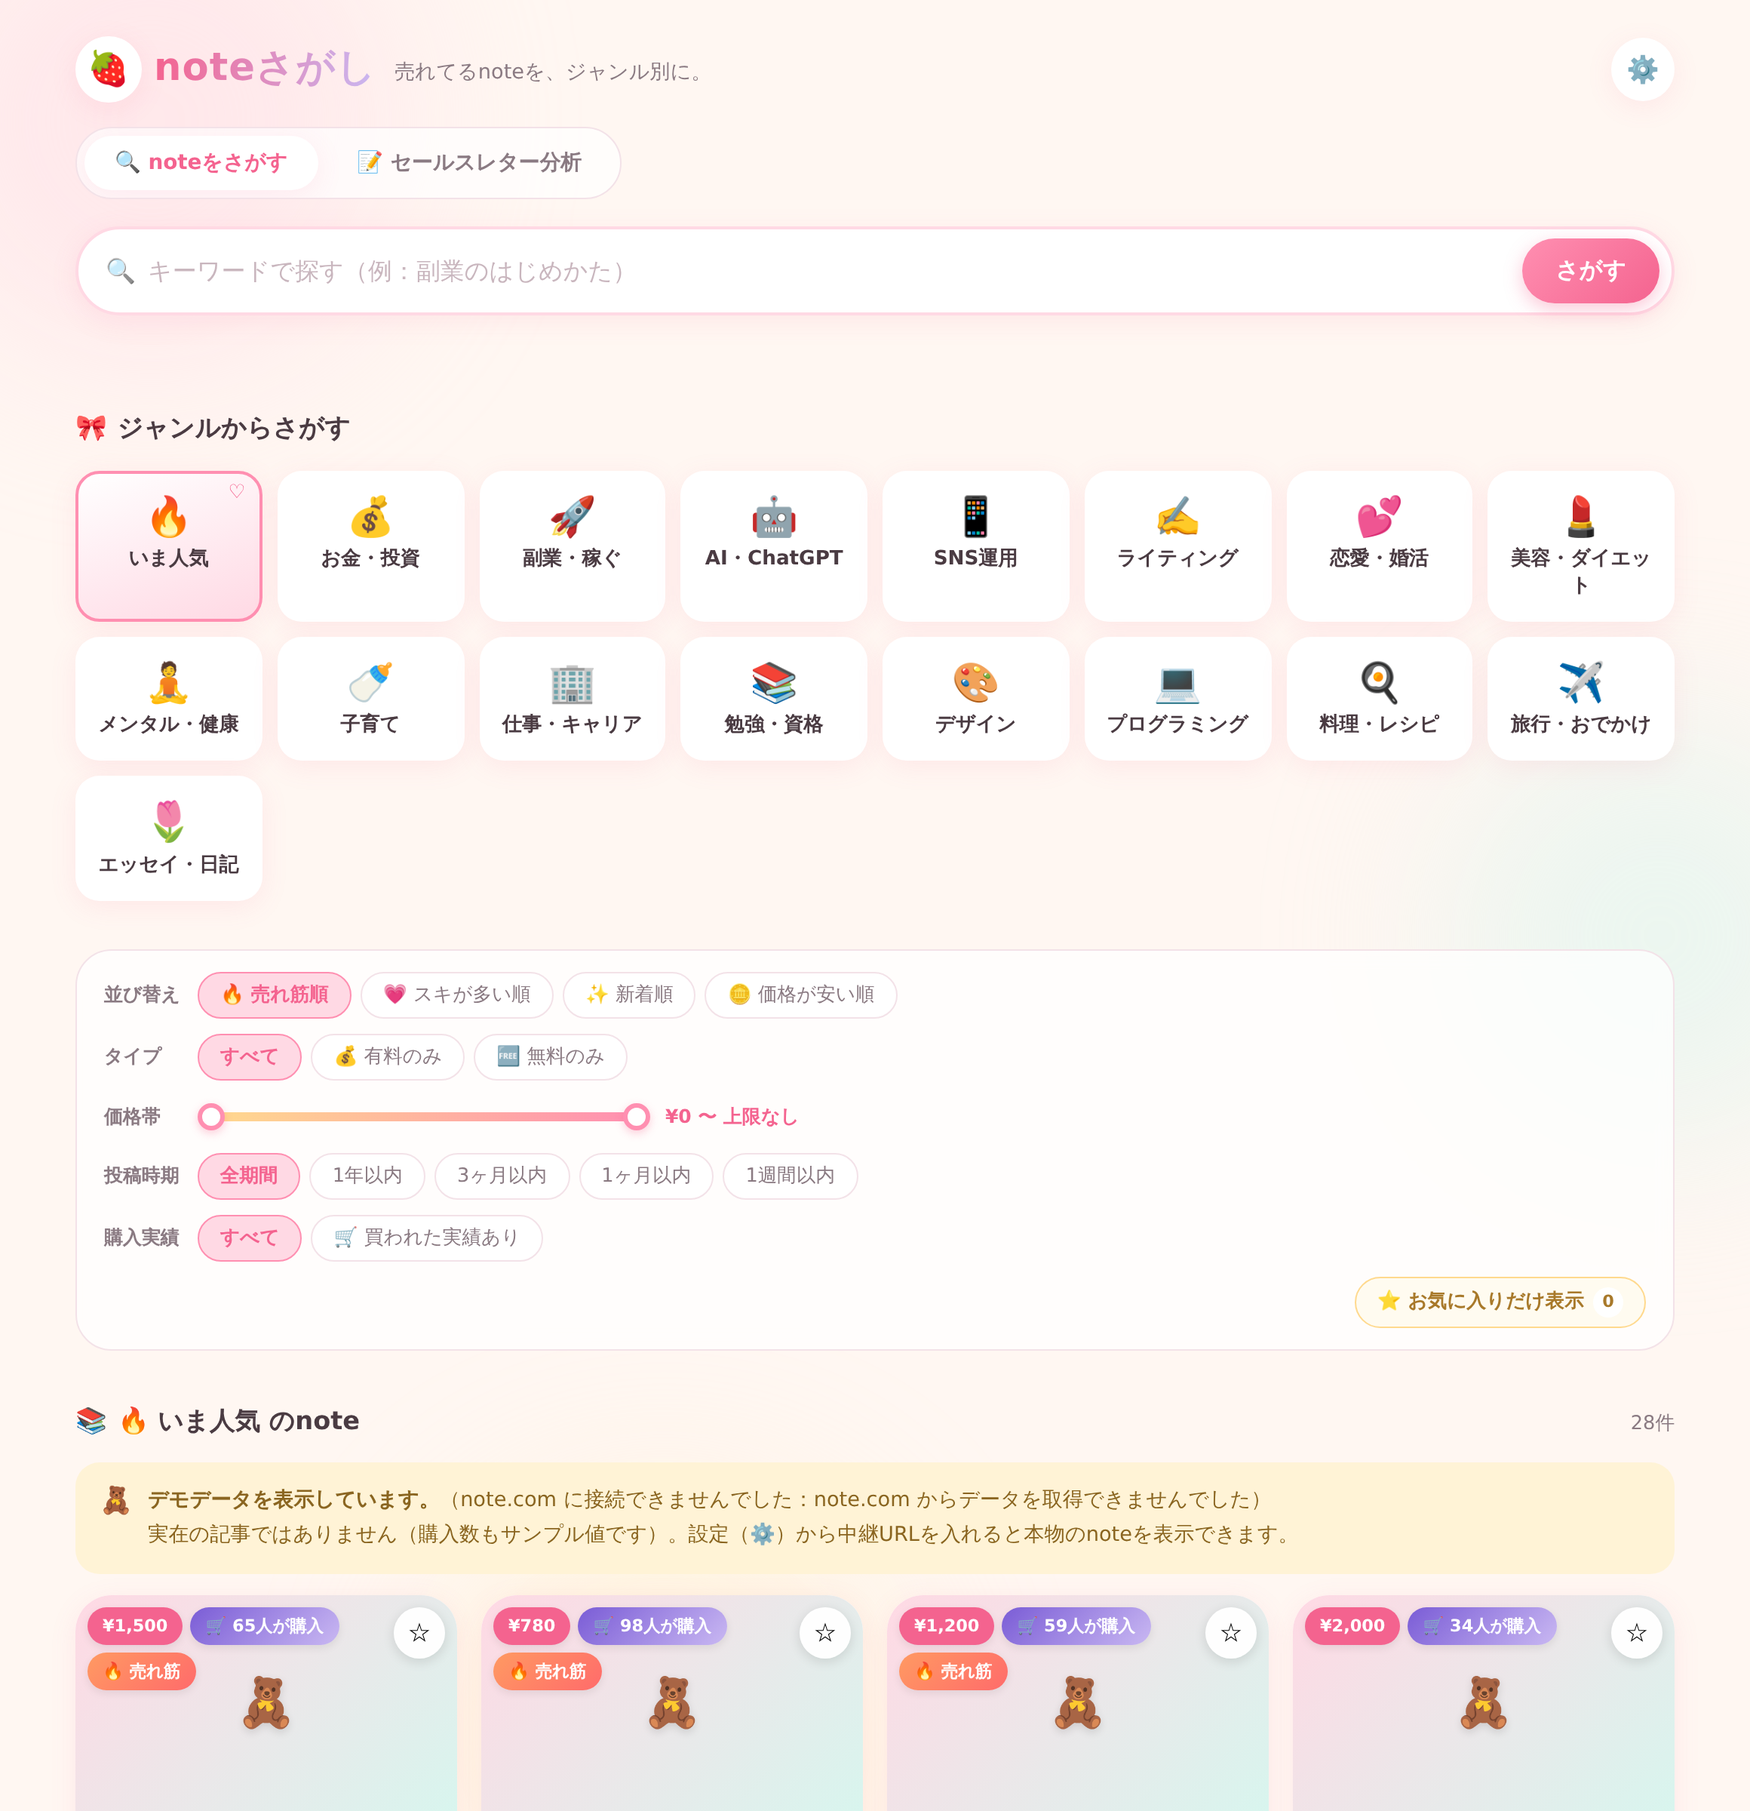
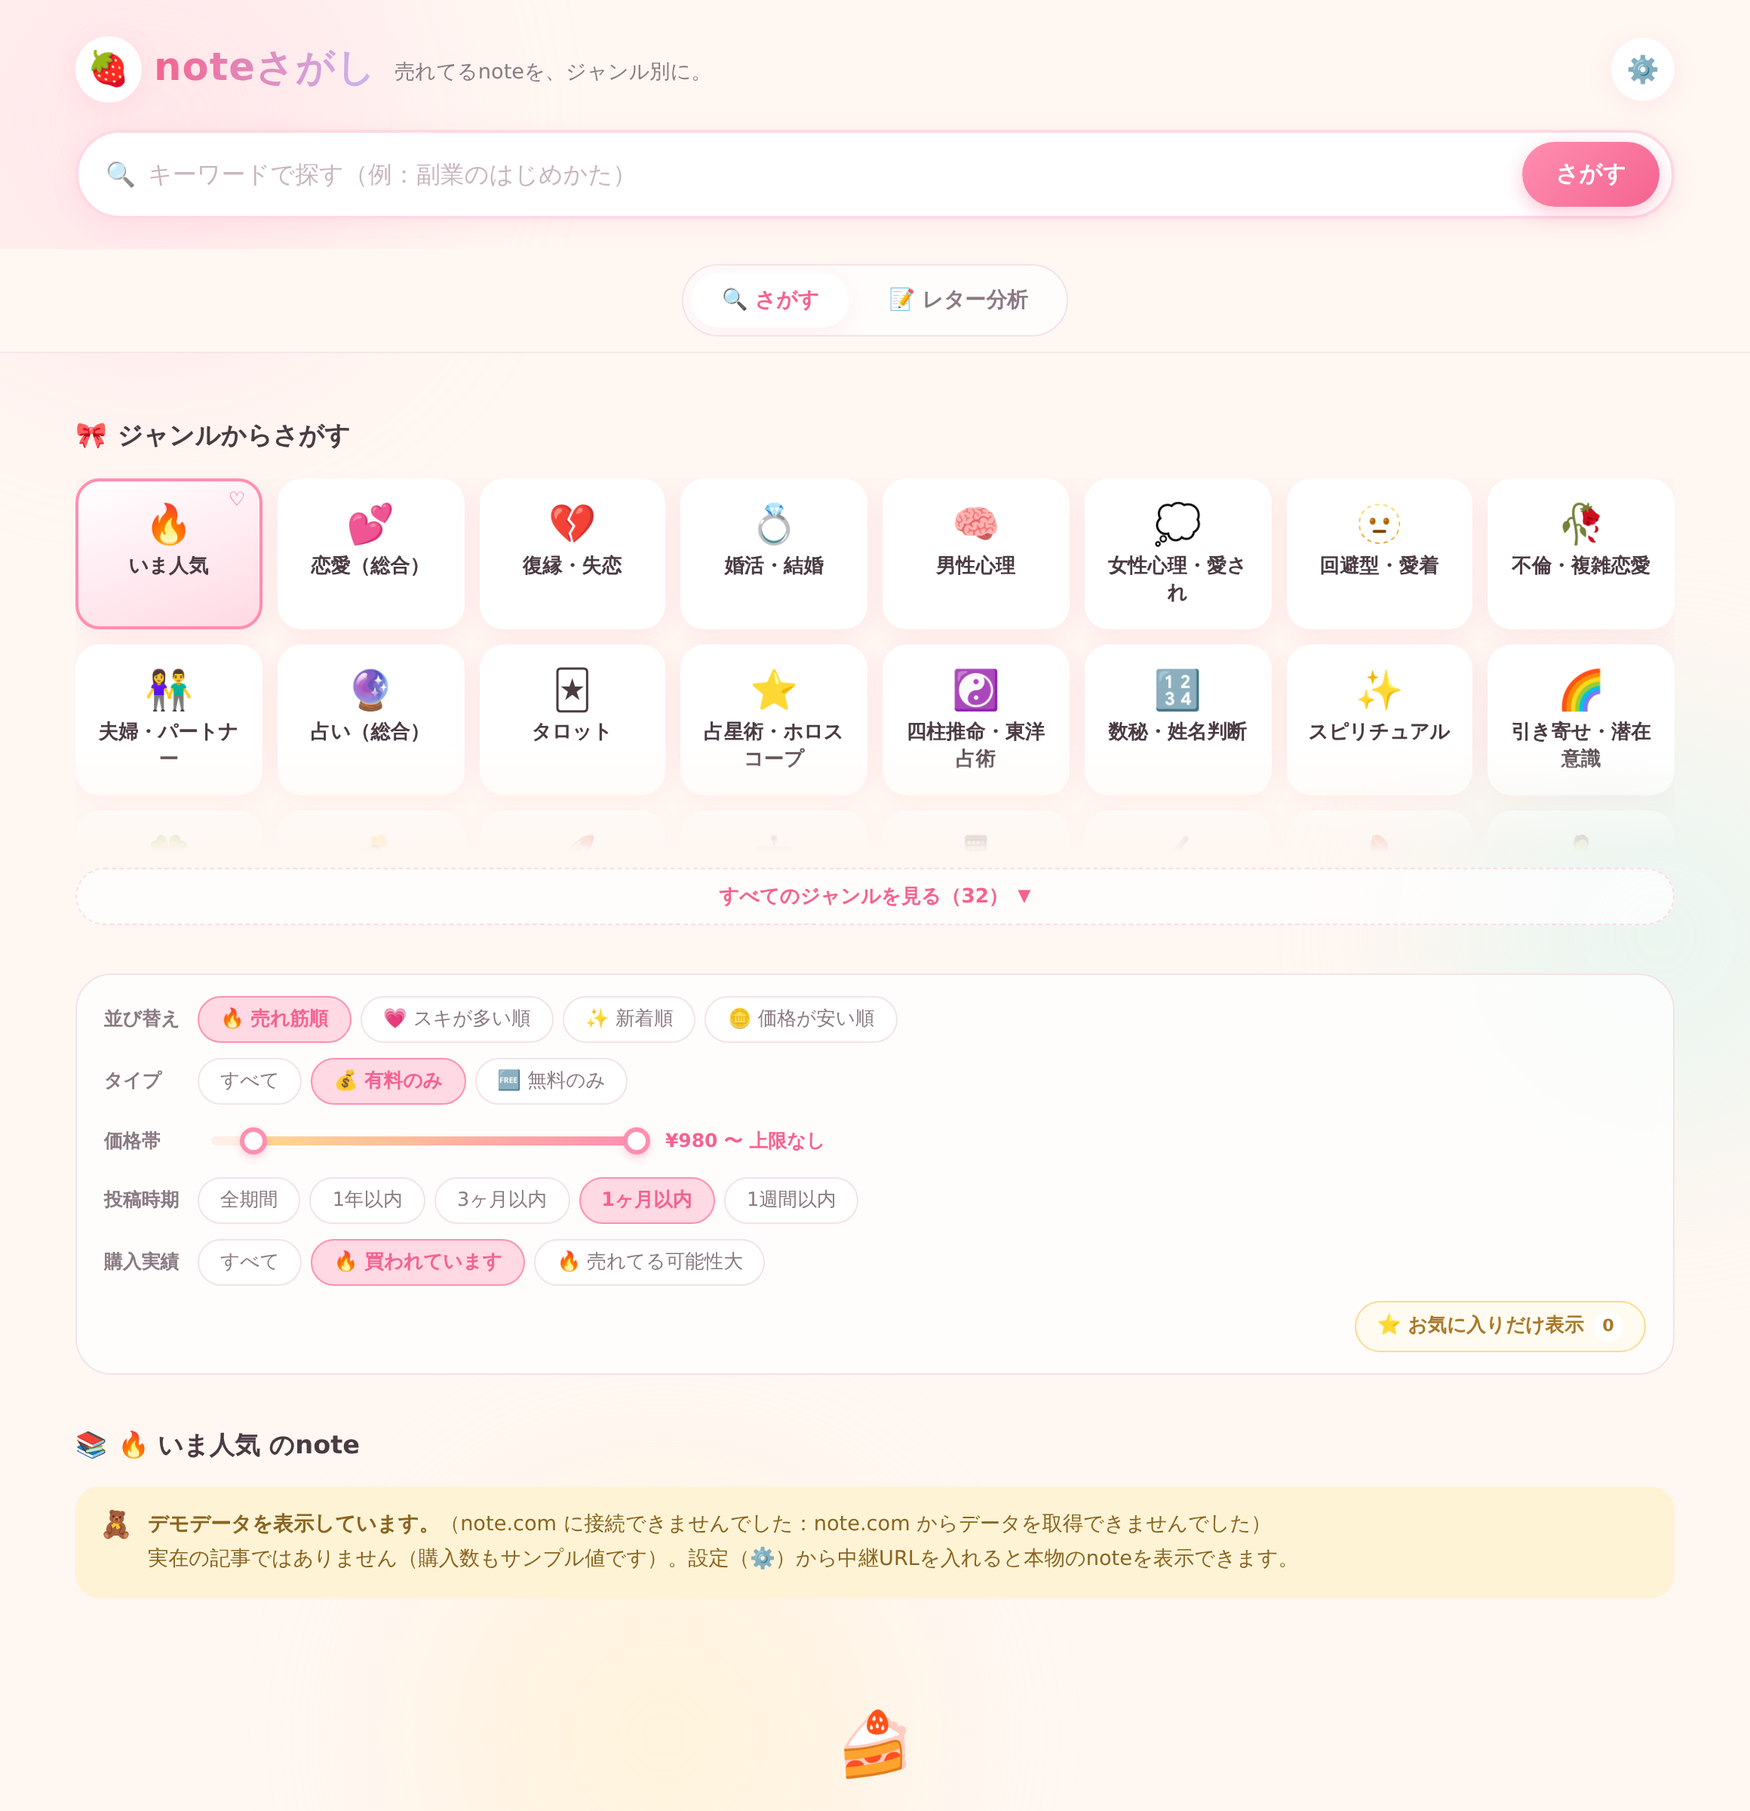
feat: スマホでの見やすさを改善
ジャンルが31に増えて、スマホだと結果にたどり着くまでに
延々スクロールする必要があったため作り直した。

- タブをヘッダーの外に出して画面上部に固定。スクロールしても
  「さがす／レター分析」がいつでも押せるように（ラベルも短縮）
- ジャンル一覧を2行だけ表示して折りたたみ、「すべてのジャンルを見る」で展開。
  下端をぼかして続きがあることが分かるように
- 絞り込みを折りたたみ式にし、狭い画面では最初から閉じておく。
  たたんだ状態でも「有料 / ¥980〜 / 1ヶ月以内 / 🔥買われています / 売れ筋順」と
  現在の条件が1行で分かるように
- スマホのブレークポイントを600→700pxに広げ、ジャンル4列・カード2列に整理。
  チップやボタンのタップ領域を拡大し、狭い端末（〜380px）は3列・1列に
- カード内の売れ筋スコアのラベルが2行に折り返していたので短縮

Claude-Session: https://claude.ai/code/session_01R3hGRwqQPiqMscnLPYKY9x

diff --git a/assets/style.css b/assets/style.css
@@ -109,17 +109,27 @@ a { color: inherit; }
 }
 .icon-btn:hover { transform: rotate(40deg) scale(1.06); }
 
-/* ---- タブ ---- */
+/* ---- タブ（スクロールしても上に残る） ---- */
+.tabbar {
+  position: sticky;
+  top: 0;
+  z-index: 30;
+  padding: 10px 20px;
+  background: rgba(255, 247, 242, .97);
+  backdrop-filter: blur(10px);
+  border-bottom: 1px solid rgba(243, 226, 232, .8);
+}
+
 .tabs {
   display: flex;
   gap: 6px;
-  margin-top: 16px;
+  max-width: 1100px;
+  margin: 0 auto;
   padding: 5px;
-  background: rgba(255, 255, 255, .7);
+  background: rgba(255, 255, 255, .8);
   border: 1px solid var(--line);
   border-radius: 999px;
   width: fit-content;
-  max-width: 100%;
   overflow-x: auto;
 }
 
@@ -254,6 +264,66 @@ a { color: inherit; }
   color: var(--pink-deep);
 }
 
+/* ---- 折りたたみ ---- */
+.wide-toggle {
+  display: flex;
+  align-items: center;
+  justify-content: center;
+  gap: 6px;
+  width: 100%;
+  margin-top: 10px;
+  border: 1.5px dashed var(--pink-soft);
+  border-radius: 999px;
+  padding: 9px 16px;
+  background: rgba(255, 255, 255, .7);
+  font-family: inherit;
+  font-size: .82rem;
+  font-weight: 700;
+  color: var(--pink-deep);
+  cursor: pointer;
+  transition: background .16s ease;
+}
+.wide-toggle:hover { background: var(--white); }
+.wide-toggle .chev { transition: transform .2s ease; font-size: .7rem; }
+.wide-toggle[aria-expanded="true"] .chev { transform: rotate(180deg); }
+
+.genre-grid.is-collapsed {
+  max-height: 248px;
+  overflow: hidden;
+  -webkit-mask-image: linear-gradient(to bottom, #000 70%, transparent);
+  mask-image: linear-gradient(to bottom, #000 70%, transparent);
+}
+
+.filters-toggle {
+  display: none;   /* 画面が広いときは常に開いておく */
+  align-items: center;
+  gap: 10px;
+  width: 100%;
+  border: none;
+  background: none;
+  padding: 2px 0 8px;
+  font-family: inherit;
+  color: var(--ink);
+  cursor: pointer;
+  text-align: left;
+}
+.filters-title { font-size: .85rem; font-weight: 700; flex-shrink: 0; }
+.filters-summary {
+  flex: 1;
+  min-width: 0;
+  font-size: .74rem;
+  color: var(--pink-deep);
+  font-weight: 700;
+  overflow: hidden;
+  text-overflow: ellipsis;
+  white-space: nowrap;
+}
+.filters-toggle .chev { font-size: .7rem; color: var(--ink-soft); transition: transform .2s ease; }
+.filters-toggle[aria-expanded="true"] .chev { transform: rotate(180deg); }
+
+.filters-body { display: flex; flex-direction: column; gap: 10px; }
+.filters-body[hidden] { display: none; }
+
 /* ---- 絞り込み ---- */
 .filters {
   background: rgba(255, 255, 255, .72);
@@ -261,9 +331,6 @@ a { color: inherit; }
   border: 1px solid var(--line);
   border-radius: var(--radius-lg);
   padding: 14px 18px;
-  display: flex;
-  flex-direction: column;
-  gap: 10px;
 }
 
 .filter-row {
@@ -599,9 +666,12 @@ a { color: inherit; }
 .score-label {
   display: flex;
   justify-content: space-between;
+  gap: 6px;
   font-size: .7rem;
   color: var(--ink-soft);
+  white-space: nowrap;
 }
+.score-label span:first-child { overflow: hidden; text-overflow: ellipsis; }
 
 /* ---- スケルトン ---- */
 .skeleton { pointer-events: none; }
@@ -924,28 +994,72 @@ a { color: inherit; }
 .btn-ghost { background: var(--cream-deep); color: var(--ink-soft); }
 
 /* ---- スマホ ---- */
-@media (max-width: 600px) {
-  .header { padding: 18px 14px 14px; }
+@media (max-width: 700px) {
+  .header { padding: 14px 14px 10px; }
   .main { padding: 8px 14px 44px; }
-  .logo { font-size: 1.35rem; }
-  /* 歯車をロゴと同じ行に置き、キャッチコピーを下の行へ */
-  .icon-btn { order: 2; }
-  .tagline { order: 3; width: 100%; padding-top: 0; font-size: .8rem; }
-  .genre-grid { grid-template-columns: repeat(auto-fill, minmax(78px, 1fr)); gap: 7px; }
-  .genre-card { font-size: .7rem; padding: 10px 4px 9px; border-radius: 14px; }
-  .genre-card .emoji { font-size: 1.35rem; }
-  .card-grid { grid-template-columns: repeat(auto-fill, minmax(160px, 1fr)); gap: 12px; }
-  .card-body { padding: 12px 12px 14px; }
-  .card-title { font-size: .87rem; }
-  .filters { padding: 12px 14px; border-radius: var(--radius-md); }
-  .filter-label { min-width: 100%; }
-  .searchbar-btn { padding: 11px 16px; }
+  .logo { font-size: 1.3rem; }
+  .logo-mark { width: 38px; height: 38px; font-size: 1.2rem; }
+  .icon-btn { order: 2; width: 40px; height: 40px; }
+  .tagline { order: 3; width: 100%; padding-top: 0; font-size: .78rem; }
+
+  /* タブは画面いっぱい・常に上に固定 */
+  .tabbar { padding: 8px 14px; }
   .tabs { width: 100%; }
-  .tab { flex: 1; padding: 9px 12px; font-size: .8rem; }
+  .tab { flex: 1; padding: 10px 8px; font-size: .82rem; text-align: center; }
+
+  .searchbar { margin-top: 12px; padding: 5px 6px 5px 14px; }
+  .searchbar-input { font-size: .95rem; padding: 9px 0; }
+  .searchbar-btn { padding: 10px 16px; font-size: .88rem; }
+
+  .section { margin-top: 22px; }
+
+  /* ジャンルは4列。折りたたみ時は2行だけ見せる */
+  .genre-grid { grid-template-columns: repeat(4, 1fr); gap: 7px; }
+  .genre-grid.is-collapsed { max-height: 172px; }
+  .genre-card { font-size: .68rem; padding: 9px 3px 8px; border-radius: 14px; gap: 2px; }
+  .genre-card .emoji { font-size: 1.3rem; }
+  .genre-card.is-active::after { top: 2px; right: 5px; font-size: .7rem; }
+
+  /* 絞り込みはたたんでおく。開くボタンに今の条件を出す */
+  .filters { padding: 12px 14px; border-radius: var(--radius-md); }
+  .filters-toggle { display: flex; }
+  .filter-label { min-width: 100%; }
+  .filter-row { gap: 8px; }
+  .chip { padding: 8px 13px; font-size: .78rem; }
   .price-range { max-width: none; }
-  .score-card { gap: 14px; padding: 16px; }
-  .score-ring { width: 92px; height: 92px; }
+  .filter-row--end { justify-content: stretch; }
+  .fav-toggle { width: 100%; justify-content: center; padding: 9px 14px; }
+  .filter-note { min-width: 100%; }
+
+  .card-grid { grid-template-columns: repeat(2, 1fr); gap: 10px; }
+  .card-body { padding: 11px 11px 13px; gap: 6px; }
+  .card-title { font-size: .83rem; -webkit-line-clamp: 3; }
+  .card-author { font-size: .72rem; }
+  .card-author img { width: 20px; height: 20px; }
+  .card-meta { font-size: .72rem; gap: 7px; }
+  .badge { font-size: .64rem; padding: 3px 7px; }
+  .card-badges { max-width: calc(100% - 16px); top: 6px; left: 6px; }
+  .fav-btn { width: 30px; height: 30px; top: 6px; right: 6px; font-size: .85rem; }
+  .analyze-btn { height: 30px; padding: 0 9px; font-size: .66rem; top: 6px; right: 42px; }
+  .score-label { font-size: .65rem; }
+
+  .letter-input { padding: 13px; font-size: .87rem; }
+  .url-row { gap: 6px; }
+  .url-input { min-width: 100%; }
+  .letter-actions .btn { padding: 10px 16px; }
+  .score-card { gap: 14px; padding: 15px; }
+  .score-ring { width: 88px; height: 88px; }
+  .score-ring .score-num { font-size: 1.6rem; }
   .check-list { grid-template-columns: 1fr; }
+  .advice-box { padding: 15px 17px; }
+  .modal-panel { padding: 20px 18px; }
+}
+
+/* ---- 細いスマホ ---- */
+@media (max-width: 380px) {
+  .genre-grid { grid-template-columns: repeat(3, 1fr); }
+  .genre-grid.is-collapsed { max-height: 186px; }
+  .card-grid { grid-template-columns: 1fr; }
 }
 
 @media (prefers-reduced-motion: reduce) {

diff --git a/assets/app.js b/assets/app.js
@@ -99,6 +99,10 @@
     rangeFill:   document.getElementById('rangeFill'),
     rangeLabel:  document.getElementById('priceRangeLabel'),
     tabs:        document.getElementById('tabs'),
+    genreToggle: document.getElementById('genreToggle'),
+    filtersToggle: document.getElementById('filtersToggle'),
+    filtersBody: document.getElementById('filtersBody'),
+    filtersSummary: document.getElementById('filtersSummary'),
     searchPane:  document.getElementById('searchPane'),
     letterPane:  document.getElementById('letterPane'),
     letterInput: document.getElementById('letterInput'),
@@ -642,9 +646,8 @@
     const paid = n.price > 0;
     const detail = detailOf(n);
     const scoreLabel = !paid ? '人気度'
-      : detail && (detail.purchased24 || detail.purchasedRecently) ? '売れ筋スコア（購入実績あり）'
-      : n.comments > 0 ? '売れ筋スコア（コメント込み推定）'
-      : '売れ筋スコア（推定）';
+      : detail && (detail.purchased24 || detail.purchasedRecently) ? '売れ筋（実績あり）'
+      : '売れ筋（推定）';
 
     const thumb = n.thumb
       ? '<img src="' + escapeHtml(n.thumb) + '" alt="" loading="lazy" decoding="async">'
@@ -737,6 +740,8 @@
   }
 
   function render() {
+    el.filtersSummary.textContent = filtersSummaryText();
+
     // 見出し
     if (state.favOnly) {
       el.resultTitle.textContent = 'お気に入り';
@@ -959,6 +964,65 @@
     el.letterPane.hidden = isSearch;
     el.searchForm.hidden = !isSearch;
     window.scrollTo({ top: 0, behavior: 'smooth' });
+  }
+
+  /* ---------- 折りたたみ（スマホで縦に長くなりすぎないように） ---------- */
+
+  const NARROW = 700;
+
+  function updateGenreToggle() {
+    const collapsed = el.genreGrid.classList.contains('is-collapsed');
+    el.genreToggle.setAttribute('aria-expanded', String(!collapsed));
+    el.genreToggle.firstChild.nodeValue = collapsed
+      ? 'すべてのジャンルを見る（' + GENRES.length + '） '
+      : 'ジャンルをたたむ ';
+  }
+
+  /** 絞り込みを開かなくても今の条件が分かるように、要約を出す */
+  function filtersSummaryText() {
+    const parts = [];
+
+    if (state.price === 'paid') parts.push('有料');
+    else if (state.price === 'free') parts.push('無料');
+
+    if (state.price !== 'free' && (state.priceMin > 0 || state.priceMax < PRICE_MAX)) {
+      parts.push('¥' + state.priceMin.toLocaleString('ja-JP') +
+        (state.priceMax >= PRICE_MAX ? '〜' : '〜¥' + state.priceMax.toLocaleString('ja-JP')));
+    }
+
+    if (state.period !== 'all') {
+      const days = Number(state.period);
+      parts.push(days === 7 ? '1週間以内' : days === 30 ? '1ヶ月以内'
+        : days === 90 ? '3ヶ月以内' : '1年以内');
+    }
+
+    if (state.bought === 'yes') parts.push('🔥買われています');
+    else if (state.bought === 'likely') parts.push('🔥売れてる可能性大');
+
+    const sortName = { selling: '売れ筋順', likes: 'スキ順', new: '新着順', cheap: '安い順' };
+    parts.push(sortName[state.sort]);
+
+    return parts.join(' / ');
+  }
+
+  function setFiltersOpen(open) {
+    el.filtersBody.hidden = !open;
+    el.filtersToggle.setAttribute('aria-expanded', String(open));
+  }
+
+  function bindCollapsers() {
+    updateGenreToggle();
+    el.genreToggle.addEventListener('click', function () {
+      el.genreGrid.classList.toggle('is-collapsed');
+      updateGenreToggle();
+    });
+
+    el.filtersToggle.addEventListener('click', function () {
+      setFiltersOpen(el.filtersBody.hidden);
+    });
+
+    // 狭い画面では最初はたたんでおく
+    setFiltersOpen(window.innerWidth > NARROW);
   }
 
   /* ---------- 価格帯スライダー ---------- */
@@ -1559,6 +1623,7 @@
   renderGenres();
   syncPriceRange();
   bindEvents();
+  bindCollapsers();
   el.favCount.textContent = String(Object.keys(favs).length);
   load(true);
 })();

diff --git a/index.html b/index.html
@@ -30,11 +30,6 @@
     <button class="icon-btn" id="settingsBtn" type="button" title="設定" aria-label="設定を開く">⚙</button>
   </div>
 
-  <nav class="tabs" id="tabs" role="tablist" aria-label="モード切り替え">
-    <button class="tab is-active" data-tab="search" type="button" role="tab" aria-selected="true">🔍 noteをさがす</button>
-    <button class="tab" data-tab="letter" type="button" role="tab" aria-selected="false">📝 セールスレター分析</button>
-  </nav>
-
   <form class="searchbar" id="searchForm" role="search">
     <span class="searchbar-icon" aria-hidden="true">🔍</span>
     <input
@@ -48,16 +43,33 @@
   </form>
 </header>
 
+<div class="tabbar">
+  <nav class="tabs" id="tabs" role="tablist" aria-label="モード切り替え">
+    <button class="tab is-active" data-tab="search" type="button" role="tab" aria-selected="true">🔍 さがす</button>
+    <button class="tab" data-tab="letter" type="button" role="tab" aria-selected="false">📝 レター分析</button>
+  </nav>
+</div>
+
 <main class="main" id="searchPane">
 
   <!-- ジャンル -->
   <section class="section" aria-labelledby="genreHeading">
     <h2 class="section-title" id="genreHeading"><span aria-hidden="true">🎀</span> ジャンルからさがす</h2>
-    <div class="genre-grid" id="genreGrid"></div>
+    <div class="genre-grid is-collapsed" id="genreGrid"></div>
+    <button class="wide-toggle" id="genreToggle" type="button" aria-expanded="false">
+      すべてのジャンルを見る <span class="chev" aria-hidden="true">▼</span>
+    </button>
   </section>
 
   <!-- 絞り込み -->
   <section class="section filters" aria-label="絞り込み">
+    <button class="filters-toggle" id="filtersToggle" type="button" aria-expanded="true" aria-controls="filtersBody">
+      <span class="filters-title">🎚 絞り込み</span>
+      <span class="filters-summary" id="filtersSummary"></span>
+      <span class="chev" aria-hidden="true">▼</span>
+    </button>
+
+    <div class="filters-body" id="filtersBody">
     <div class="filter-row">
       <span class="filter-label">並び替え</span>
       <div class="chips" id="sortChips" role="group" aria-label="並び替え">
@@ -112,6 +124,7 @@
       <button class="fav-toggle" id="favToggle" type="button" aria-pressed="false">
         ⭐ お気に入りだけ表示 <span class="fav-count" id="favCount">0</span>
       </button>
+    </div>
     </div>
   </section>
 
